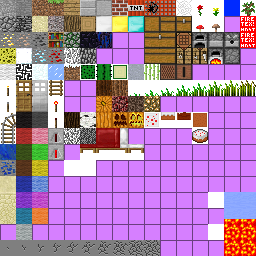
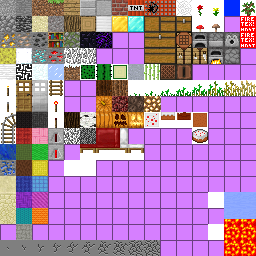
README and terrain.png change
Updated the README so that it is easier to understand how to use Casscraft and changed the textures on terrain.png as I guess I just *forgot* to change all of them? I don't know

diff --git a/README.md b/README.md
@@ -2,7 +2,7 @@
 
 As I am a fan of Minecraft, I wanted to make my own texture pack, so, everyone get ready for **Casscraft**... my name is Cass, by the way...
 
-For the game to see this texture pack, place it in the `/texturepacks/` folder, making sure it is zipped. If you download this on GitHub, you can assure that the game will see this pack as it will be correctly zipped.
+For the game to see this texture pack, place it in the `/texturepacks/` folder, ensuring it is zipped. If you download this on GitHub (or a mirror), you will need to extract the ZIP, go one file up so you're in `/pc-gamer-demo-main/` and re-ZIP it once more and finally place the new ZIP in the pre-mentioned `/texturepacks/` folder so it will work.
 
 This pack has been made only for the [PC Gamer Demo](https://minecraft.fandom.com/wiki/PC_Gamer_Demo) version of the game.
 
